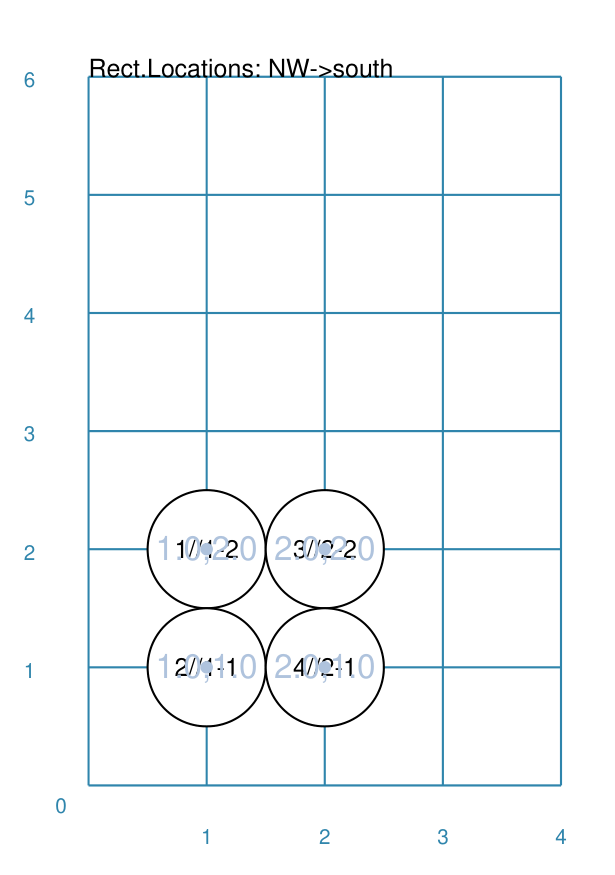
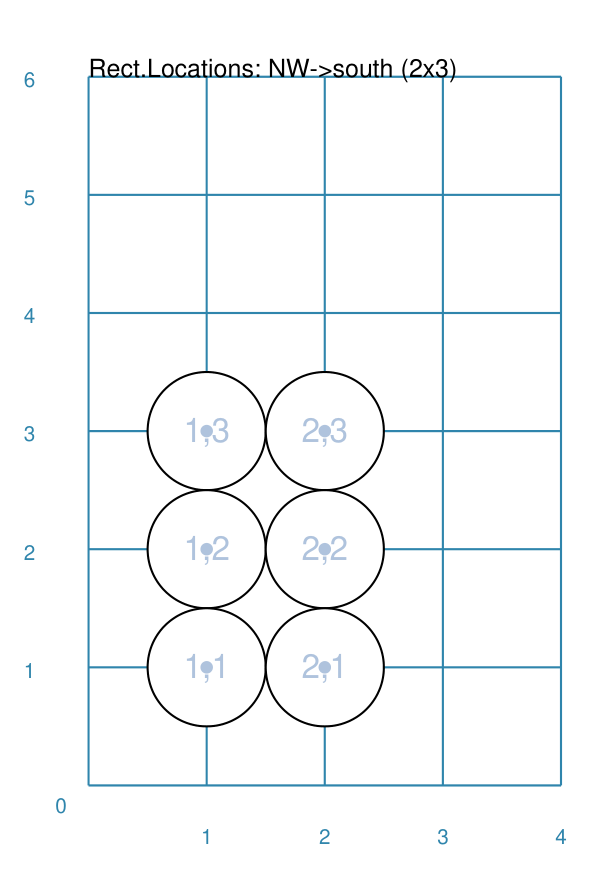
WIP on layouts.

diff --git a/examples/boards/abstract/backgammon.py b/examples/boards/abstract/backgammon.py
@@ -19,29 +19,21 @@ Rectangle(common=zone, x=14, y=1, fill=bisque)
 points = Common(width=1.5, height=7.5, top=0.01)
 # left zone
 Sequence(
-    trapezoid(common=points, x=4, y=1, fill_stroke=saddlebrown),
+    [trapezoid(common=points, x=4, y=1, fill_stroke=saddlebrown),
+     trapezoid(common=points, x=5.5, y=1, fill_stroke=tan)],
     setting=(1, 3), gap_x=3)
 Sequence(
-    trapezoid(common=points, x=5.5, y=1, fill_stroke=tan),
-    setting=(1, 3), gap_x=3)
-Sequence(
-    trapezoid(common=points, x=14, y=1, fill_stroke=saddlebrown),
-    setting=(1, 3), gap_x=3)
-Sequence(
-    trapezoid(common=points, x=15.5, y=1, fill_stroke=tan),
+    [trapezoid(common=points, x=14, y=1, fill_stroke=saddlebrown),
+     trapezoid(common=points, x=15.5, y=1, fill_stroke=tan)],
     setting=(1, 3), gap_x=3)
 # right zone
 Sequence(
-    trapezoid(common=points, x=4, y=9.5, fill_stroke=tan, flip='s'),
+    [trapezoid(common=points, x=4, y=9.5, fill_stroke=tan, flip='s'),
+     trapezoid(common=points, x=5.5, y=9.5, fill_stroke=saddlebrown, flip='s')],
     setting=(1, 3), gap_x=3)
 Sequence(
-    trapezoid(common=points, x=5.5, y=9.5, fill_stroke=saddlebrown, flip='s'),
-    setting=(1, 3), gap_x=3)
-Sequence(
-    trapezoid(common=points, x=14, y=9.5, fill_stroke=tan, flip='s'),
-    setting=(1, 3), gap_x=3)
-Sequence(
-    trapezoid(common=points, x=15.5, y=9.5, fill_stroke=saddlebrown, flip='s'),
+    [trapezoid(common=points, x=14, y=9.5, fill_stroke=tan, flip='s'),
+     trapezoid(common=points, x=15.5, y=9.5, fill_stroke=saddlebrown, flip='s')],
     setting=(1, 3), gap_x=3)
 # zone edges
 Rectangle(common=zone, x=4, y=1, fill=None)

diff --git a/pyprototypr/shapes.py b/pyprototypr/shapes.py
@@ -3581,8 +3581,9 @@ class TextShape(BaseShape):
         if _locale:
             self.text = tools.eval_template(self.text, _locale)
         _text = self.textify(ID)
-        # tools.feedback(f'*** {_locale=} {self.text=} {_text}')
-        if _text is None:
+        # tools.feedback(f'*** {_locale=} {self.text=} {_text=}', False)
+        if _text is None or _text == '':
+            tools.feedback('No text supplied for the Text shape!', False, True)
             return
         _text = str(_text)  # card data could be numeric
         if '\\u' in _text:
@@ -3616,12 +3617,12 @@ class TextShape(BaseShape):
             endDots=None,
             splitLongWords=1,
             """
-            # tools.feedback(f'*** LONG-{ID} => text:{_text}')
+            # tools.feedback(f'*** LONG-{ID} => _text:{_text}')
             para = Paragraph(_text, style=_style)
             w, h = para.wrap(width, height)
             para.drawOn(cnv, x_t, y_t - h)  # start text from top of 'box'
         else:
-            # tools.feedback(f"*** {x_t=} {y_t=} {_text=} {_sequence} {rotation=}")
+            # tools.feedback(f"*** {x_t=} {y_t=} {_text=} {sequence=} {rotation=}")
             cnv.setFillColor(self.stroke)
             self.draw_multi_string(cnv, x_t, y_t, _text, rotation=rotation)
 

diff --git a/examples/boards/abstract/chessboard_brown.py b/examples/boards/abstract/chessboard_brown.py
@@ -37,7 +37,13 @@ Rectangle(
 
 # labels for board
 grid_label = Common(font_size=18, align="left", stroke=saddlebrown)
-Sequence(text(common=grid_label, x=0.75, y=-0.75), setting=('a', 'h'), gap_x=2.25)
-Sequence(text(common=grid_label, x=-0.75, y=0.75), setting=(1, 8), gap_y=2.25)
+Sequence(
+    text(common=grid_label, text="{{sequence}}", x=0.75, y=-0.75),
+    setting=('a', 'h'),
+    gap_x=2.25)
+Sequence(
+    text(common=grid_label, text="{{sequence}}", x=-0.75, y=0.75),
+    setting=(1, 8),
+    gap_y=2.25)
 
 Save()

diff --git a/examples/core/layouts/layouts_rectangular.py b/examples/core/layouts/layouts_rectangular.py
@@ -21,9 +21,9 @@ a_circle = circle(
 # ---- regular
 
 Blueprint(stroke_width=0.5)
-Text(common=header, text="Rect.Locations: NW->south")
-rect = RectangularLocations(cols=2, rows=2, start="NW", direction="south")
-Layout(rect, shapes=[a_circle,], debug='xy')
+Text(common=header, text="Rect.Locations: NW->south (2x3)")
+rect = RectangularLocations(cols=2, rows=3, start="NW", direction="south")
+Layout(rect, shapes=[circle(x=0, y=0, diameter=1)], debug='cr')
 PageBreak()
 
 Blueprint(stroke_width=0.5)

diff --git a/examples/core/layouts/layouts_sequence.py b/examples/core/layouts/layouts_sequence.py
@@ -62,7 +62,8 @@ Sequence(
     gap_x=1.2,
     )
 Sequence(
-    hexagon(x=0.5, y=1.5, radius=0.5, title_size=8, title="Fig. {{sequence}}"),
+    [hexagon(x=0.5, y=1.5, radius=0.5, title_size=8, title="Fig. {{sequence}}"),
+     circle(cx=1, cy=2, radius=0.2, fill=grey)],
     setting=('C', 'A', -1),
     gap_y=1.5,
     gap_x=0.5,

diff --git a/docs/layouts_sequence.rst b/docs/layouts_sequence.rst
@@ -160,16 +160,18 @@ Example 2.
 |sq2| This example shows the element constructed using differing values for the
       its properties.  In these cases, values in the sequence are being assigned
       to a text-based property using the special ``{{sequence}}`` keyword; when this
-      is encountered, it is replaced by the **actual** value of the sequence item.
+      is encountered, it is replaced by the **actual** value of the sequence number
+      for the item.
 
-      The example with **hexagons** (top left) is created by:
+      The example with **hexagons** and nested circles (upper left) is created by:
 
       .. code:: python
 
           Sequence(
-              hexagon(
+              [hexagon(
                  x=0.5, y=1.5, radius=0.5,
                   title_size=8, title="Fig. {{sequence}}"),
+               circle(cx=1, cy=2, radius=0.2, fill=grey)],
               setting=('C', 'A', -1),
               gap_y=1.5,
               gap_x=0.5,
@@ -180,6 +182,12 @@ Example 2.
       the type of value can be inferred from the start and end values. Each letter
       in the sequence is assigned to the ``{{sequence}}`` keyword and so that
       sequence value becomes part of the ``Hexagon`` 's title text.
+
+      This example also shows how multiple shapes can be drawn at the same time
+      with a single ``Sequence`` command; instead of supplying a single shape,
+      provide two or more in a list (enclosed with square brackets ``[...]``);
+      as always the shapes are drawn in order - in this case, the hexagon first
+      and then the grey circle.
 
       The example with **rectangles** (lower edge) is created by:
 
@@ -197,7 +205,7 @@ Example 2.
       is assigned to the ``{{sequence}}`` keyword and substituted into the text as
       part of the ``Rectangle`` 's label; the `$` is just a normal character.
 
-      The example with **circles** (top right) is created by:
+      The example with **circles** (upper right) is created by:
 
       .. code:: python
 

diff --git a/docs/examples/abstract.rst b/docs/examples/abstract.rst
@@ -43,7 +43,10 @@ Title       *Chess Board - Brown*
 Source Code `chessboard_brown.py <https://github.com/gamesbook/pyprototypr/blob/master/examples/boards/abstract/chessboard_brown.py>`_
 ----------- ------------------------------------------------------------------
 Discussion  This example shows how to construct a regular Chess board with
-            brown styling and grid references.
+            brown styling and grid references. This example uses a Square grid;
+            with alphanumeric locations. These locations are then referenced
+            and drawn with a Location command. The grid notation along the
+            board edges is created via Sequence commands.
 
 ----------- ------------------------------------------------------------------
 Screenshot  .. image:: images/boards/abstract/chessboard_brown.png
@@ -64,7 +67,9 @@ Discussion  This example shows how to construct a regular Backgammon board.
 
             This uses Trapezoid shape with a very narrow *top* to represent a
             point; this can be copied across in a line using a ``Sequence()``
-            command.
+            command. There is one Sequence command for each section of the
+            board (top and bottom sections of each panel); and each Sequence
+            draws a pair of Trapezoid shapes multiple times.
 
 ----------- ------------------------------------------------------------------
 Screenshot  .. image:: images/boards/abstract/backgammon.png

diff --git a/docs/layouts_rectangular.rst b/docs/layouts_rectangular.rst
@@ -158,6 +158,11 @@ Example 1. Rows and Columns
             cols=3, rows=4)
         Layout(rect, shapes=[a_circle])
 
+      As can be seen the sequence starts, by default, in the lower-left;
+      and increases from left to right and then from top to bottom. This
+      pattern is also mirrored in the column and row numbers (which follow
+      next to the *//* in the label).
+
 ===== ======
 
 Example 2. Start and Direction
@@ -177,6 +182,9 @@ Example 2. Start and Direction
             cols=3, rows=4,
             start="NW", direction="east")
         Layout(rect, shapes=[a_circle])
+
+      Here the sequence starts in the top-left / northwest ("NW") corner,
+      and flows to the right ("east") and down.
 
 ===== ======
 
